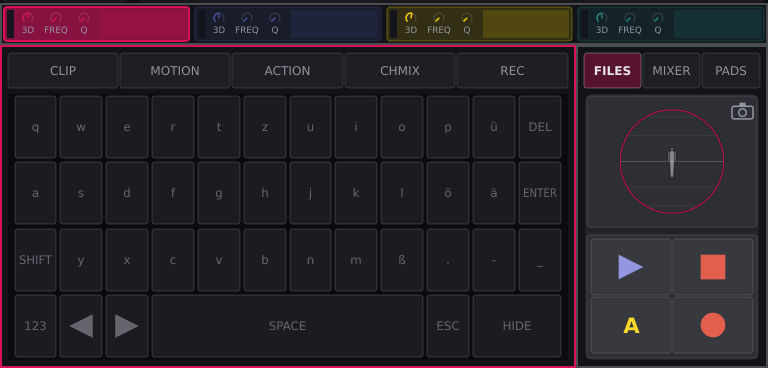
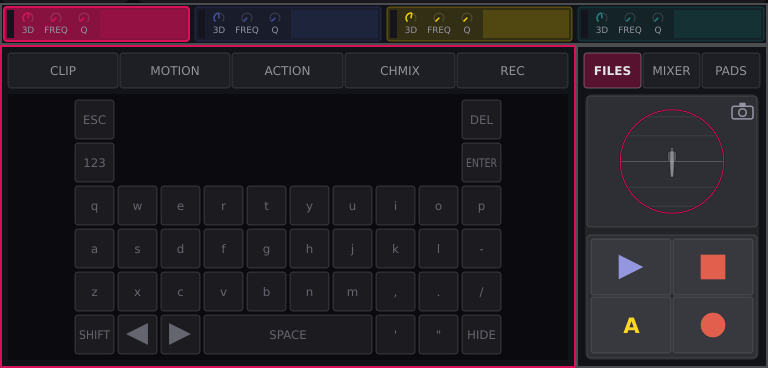
docs(motion): PADS and keyboard pictures, the three typing GIFs re-recorded
PADS with the panel's ten columns; the keyboard on the panel grid, QWERTY; howto-files-edit-save, -menu-network and -menu-skin-editor-value typed on it. Text follows.

diff --git a/src/user/a3motion.md b/src/user/a3motion.md
@@ -417,7 +417,7 @@ Double tap a knob to clear its lane; the other lanes stay.
 
 ![In FILES › CLIPS tap one of your own clips, tap Delete (it asks Sure?), tap Delete again: the row is gone.](pics_user/howto-files-delete.gif)
 
-<!-- GIF: howto-files-edit-save.gif | region: 0,0,768,1024 | recorded 2026-09-29, 10.2 s | steps: In FILES › ACTIONS tap your own copy, type in the editor, tap another row (refused), tap Save. | "FILES › ACTIONS, your own copy" / "Tap in the editor and type" / "Another row? Save or Cancel first" / "Save: written, keyboard gone" | full screen: Onboard comes up and the UI shrinks into the upper part while typing -->
+<!-- GIF: howto-files-edit-save.gif | region: 0,0,768,1024 | recorded 2026-09-30, quiet-indigo-2, the panel keyboard | steps: In FILES › ACTIONS tap your own copy, type in the editor, tap another row (refused), tap Save. | "FILES › ACTIONS, your own copy" / "Tap in the editor and type" / "Another row? Save or Cancel first" / "Save: written, keyboard gone" -->
 
 ![In FILES › ACTIONS tap your own copy, type in the editor, tap another row (refused), tap Save.](pics_user/howto-files-edit-save.gif)
 
@@ -505,7 +505,7 @@ tapped since. Tap it in again.
 
 ![In MENU double tap Skin, step down three skins with the arrow key (each previews), press Escape: the old skin stays.](pics_user/howto-menu-skin.gif)
 
-<!-- GIF: howto-menu-skin-editor-value.gif | region: 0,0,768,1024 | recorded 2026-09-29, 9.9 s | steps: In the Skin Editor double tap netGain, tap + three times, press Escape: the value is back. | "Skin Editor: double tap a value" / "+ steps it: 0.55, 0.605, 0.665" / "Esc: back to 0.500, nothing kept" | the edit box covers the sphere, so only the number shows the step; Escape, not Enter, keeps the sandbox skin as it was -->
+<!-- GIF: howto-menu-skin-editor-value.gif | region: 0,0,768,1024 | recorded 2026-09-30, quiet-indigo-2, the panel keyboard | steps: In the Skin Editor double tap netGain, tap + three times, press Escape: the value is back. | "Skin Editor: double tap a value" / "+ steps it: 0.55, 0.605, 0.665" / "Esc: back to 0.500, nothing kept" | the edit box covers the sphere, so only the number shows the step; Escape, not Enter, keeps the sandbox skin as it was -->
 
 ![In the Skin Editor double tap netGain, tap + three times, press Escape: the value is back.](pics_user/howto-menu-skin-editor-value.gif)
 
@@ -533,7 +533,7 @@ listen on the same one. A typo doesn't fail loudly: A³ Motion just sends to
 an address nobody listens to.
 ```
 
-<!-- GIF: howto-menu-network.gif | region: 0,0,768,1024 | recorded 2026-09-29, 9.8 s | steps: In MENU tap Network, drag to the ports, double tap a port, type, press Escape: the old port is back. | "MENU › Network" / "Hosts, ports, OSC addresses" / "Drag down to the ports" / "Double tap a port to type" / "Esc: the old port is back" | Escape at the end, so the sandbox config stays as it was -->
+<!-- GIF: howto-menu-network.gif | region: 0,0,768,1024 | recorded 2026-09-30, quiet-indigo-2, the panel keyboard | steps: In MENU tap Network, drag to the ports, double tap a port, type, press Escape: the old port is back. | "MENU › Network" / "Hosts, ports, OSC addresses" / "Drag down to the ports" / "Double tap a port to type" / "Esc: the old port is back" | Escape at the end, so the sandbox config stays as it was -->
 
 ![In MENU tap Network, drag to the ports, double tap a port, type, press Escape: the old port is back.](pics_user/howto-menu-network.gif)
 
